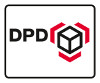
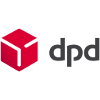
A whole to, read description
- Updated carrier naming
- Updated logo's
- Added install-0.1.6.php: will automatically change logos --> no reset
required
- Updated locator icons

diff --git a/dpdcarrier/views/templates/front/js/parcelshoplocator.js b/dpdcarrier/views/templates/front/js/parcelshoplocator.js
@@ -157,7 +157,7 @@ var DPD = new function(){
 				
 				testResult = xmlhttp.responseText;
 				if(xmlhttp.status == 404 || testResult == "FALSE" || testResult == "") {
-					alert ("Sorry, but something went wrong looking for the DPD Parcelshops. \r\n If this problem persists please contact the sites administrator");
+					alert ("Sorry, but something went wrong looking for the Pickup points. \r\n If this problem persists please contact the sites administrator");
 				} else {
 					// Parse the response to json object.
 					objResult = JSON.parse(testResult);
@@ -189,10 +189,10 @@ var DPD = new function(){
 						// Create marker logo
 						var DPDimage = {
 							url: imageurl,
-							size: new google.maps.Size(100, 100),
+							size: new google.maps.Size(110, 120),
 							origin: new google.maps.Point(0, 0),
 							anchor: new google.maps.Point(17, 34),
-							scaledSize: new google.maps.Size(50, 50)
+							scaledSize: new google.maps.Size(55, 60)
 						};
 						
 						// Create shop location

diff --git a/dpdcarrier/controllers/front/parcelshopselected.php b/dpdcarrier/controllers/front/parcelshopselected.php
@@ -39,7 +39,7 @@ class DpdCarrierParcelShopSelectedModuleFrontController extends ModuleFrontContr
 				{
 					$parcelshop_address = new Address();
 					$parcelshop_address->id_country = $parcelshop->id_country;
-					$parcelshop_address->alias = 'DPD ParcelShop';
+					$parcelshop_address->alias = 'Pickup';
 					$parcelshop_address->company = $parcelshop->name;
 					$parcelshop_address->firstname = $delivery_address->firstname;
 					$parcelshop_address->lastname = $delivery_address->lastname;
@@ -57,7 +57,7 @@ class DpdCarrierParcelShopSelectedModuleFrontController extends ModuleFrontContr
 					$return['result'] .= ' <br>' . $this->l('Located at') . ': ' . $parcelshop->address . ', ' . $parcelshop->postcode . ' ' . $parcelshop->city . '</p>';
 					$return['result'] .= '<a href="#" onclick="javascript:dpdLocator.showLocator();return false;">' . $this->l('Click here to alter your choice') .'</a>';
 				} else {
-					Logger::addLog('Customer, ' . $this->context->customer->firstname . ' ' . $this->context->customer->lastname . ' (' . $this->context->customer->id . '), tried to hack the country restrictions for DPD ParcelShop Delivery.', 2, null, null, null, true);
+					Logger::addLog('Customer, ' . $this->context->customer->firstname . ' ' . $this->context->customer->lastname . ' (' . $this->context->customer->id . '), tried to hack the country restrictions for Pickup Delivery.', 2, null, null, null, true);
 					$return = array(
 						'hasErrors' => true
 						,'errors' => $this->l('Somehow the shop is not in the same country as your delivery address. As this is not allowed this warning has been logged. Please select a shop in the same country as your pre selected delivery address.')

diff --git a/dpdcarrier/upgrade/index.php b/dpdcarrier/upgrade/index.php
@@ -1,0 +1,35 @@
+<?php
+/*
+* 2007-2014 PrestaShop
+*
+* NOTICE OF LICENSE
+*
+* This source file is subject to the Academic Free License (AFL 3.0)
+* that is bundled with this package in the file LICENSE.txt.
+* It is also available through the world-wide-web at this URL:
+* http://opensource.org/licenses/afl-3.0.php
+* If you did not receive a copy of the license and are unable to
+* obtain it through the world-wide-web, please send an email
+* to license@prestashop.com so we can send you a copy immediately.
+*
+* DISCLAIMER
+*
+* Do not edit or add to this file if you wish to upgrade PrestaShop to newer
+* versions in the future. If you wish to customize PrestaShop for your
+* needs please refer to http://www.prestashop.com for more information.
+*
+*  @author PrestaShop SA <contact@prestashop.com>
+*  @copyright  2007-2014 PrestaShop SA
+*  @license    http://opensource.org/licenses/afl-3.0.php  Academic Free License (AFL 3.0)
+*  International Registered Trademark & Property of PrestaShop SA
+*/
+				    	
+header("Expires: Mon, 26 Jul 1997 05:00:00 GMT");
+header("Last-Modified: ".gmdate("D, d M Y H:i:s")." GMT");
+						
+header("Cache-Control: no-store, no-cache, must-revalidate");
+header("Cache-Control: post-check=0, pre-check=0", false);
+header("Pragma: no-cache");
+						
+header("Location: ../");
+exit;

diff --git a/dpdcarrier/classes/DPD/dpdshippingmethods.php b/dpdcarrier/classes/DPD/dpdshippingmethods.php
@@ -17,19 +17,19 @@ class DpdShippingMethods
 		$this->methods = array();
 		
 		$this->methods[0] = new stdClass();
-		$this->methods[0]->name = 'DPD Classic';
+		$this->methods[0]->name = 'Home';
 		$this->methods[0]->type = 'B2B';
-		$this->methods[0]->description = 'Get your parcel delivered at your place of work (no predict notification)';
+		$this->methods[0]->description = 'Get your parcel delivered at your place';
 		
 		$this->methods[1] = new stdClass();
-		$this->methods[1]->name = 'DPD Home';
+		$this->methods[1]->name = 'Home With Predict';
 		$this->methods[1]->type = 'B2C';
-		$this->methods[1]->description = 'Get your parcel delivered at your place';
+		$this->methods[1]->description = 'Get your parcel delivered at your place (with notification of delivery)';
 		
 		$this->methods[2] = new stdClass();
-		$this->methods[2]->name = 'DPD ParcelShop';
+		$this->methods[2]->name = 'Pickup';
 		$this->methods[2]->type = 'PSD';
-		$this->methods[2]->description = 'Get your parcel delivered at a DPD ParcelShop and collect it at your convenience.';
+		$this->methods[2]->description = 'Get your parcel delivered at a Pickup point and collect it at your convenience.';
 		$this->methods[2]->max_width = 100;
 		$this->methods[2]->max_circum = 200;		
 		$this->methods[2]->max_weight = 20;		

diff --git a/dpdcarrier/dpdcarrier.php b/dpdcarrier/dpdcarrier.php
@@ -35,7 +35,7 @@ class DpdCarrier extends Module
 		$this->config = new DpdCarrierConfig();
 		
 		$this->name = 'dpdcarrier';
-		$this->version = '0.1.5';
+		$this->version = '0.1.6';
 		$this->ps_versions_compliancy = array('min' => '1.5', 'max' => _PS_VERSION_);
 		$this->author = 'Michiel Van Gucht';
 		
@@ -314,14 +314,15 @@ class DpdCarrier extends Module
 			$order->id_address_delivery = $id_parcelshop_address;
 			$order->save();
 		}
-		elseif( (int)($order->id_carrier) == (int)(Configuration::get('DPDCARRIER_DPD_PARCELSHOP_ID'))
-		 && $delivery_address->alias != 'DPD ParcelShop')
+		elseif( (int)($order->id_carrier) == (int)(Configuration::get('DPDCARRIER_PICKUP_ID'))
+		 && $delivery_address->alias != 'Pickup')
 		{
-			$order->id_carrier = Configuration::get('DPDCARRIER_DPD_HOME_ID');
+			$id_carrier = Configuration::get('DPDCARRIER_HOME_WITH_PREDICT_ID');
+			$order->id_carrier = $id_carrier;
 			$order->save();
 				
 			Db::getInstance()->update( 'order_carrier' , 
-				array('id_carrier' => Configuration::get('DPDCARRIER_DPD_HOME_ID')), 
+				array('id_carrier' => $id_carrier), 
 				'id_order = ' . $order->id, 0, $null_values);
 		}
 	}

diff --git a/dpdcarrier/upgrade/install-0.1.6.php b/dpdcarrier/upgrade/install-0.1.6.php
@@ -1,0 +1,29 @@
+<?php
+if (!defined('_PS_VERSION_'))
+  exit;
+ 
+function upgrade_module_0_1_6($object)
+{
+		$carrier_mapping = array( 
+			'DPD Classic' => 'Home'
+			,'DPD Home' => 'Home with predict'
+			,'DPD ParcelShop' => 'PICKUP'
+		);
+		
+		foreach($carrier_mapping as $old => $new)
+		{
+			$carrier_id = Configuration::get(generateVariableName($object, $old . ' id'));
+			Configuration::updateValue(generateVariableName($object, $new . ' id'), $carrier_id);
+			Configuration::deleteByName(generateVariableName($object, $old . ' id'));
+			
+			copy(dirname(__FILE__) . '/../views/img/' . strtolower(str_replace(' ', '_', $new)) . '.jpg', _PS_SHIP_IMG_DIR_ . '/' . (int) $carrier_id . '.jpg');
+		}
+		
+		return true;
+}
+
+function generateVariableName($object, $input)
+{
+	return strtoupper($object->name . '_' . str_replace(" ", "_", $input));
+}
+?>
